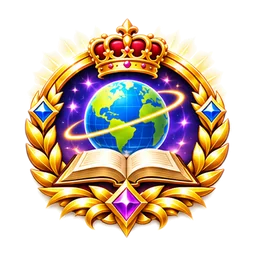
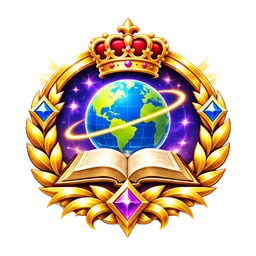
No.106・112の白背景残り(発光ハロー・縁の色混入)を根本修正
【前回修正(33e8789)の限界】
alphaBlurSigmaの引き上げは境界のギザギザ形状を滑らかにしただけで、
半透明境界ピクセル自体に混入した白色(RGB)は除去されず、ユーザー報告の
「白背景残りが依然として目立つ」症状の原因として残っていた。
extractComponentSquare()はアルファ値に応じたRGB補正(decontamination)
を行わず、シート上のRGBをそのまま転写するため、境界部分は
「白背景色とデザイン色の混合色」のまま半透明化されるだけだった。

【根本原因】
既存のlightMetric:"min"(PR #97)は「明度(min(R,G,B))がlightThreshold未満
か」のみで前景/背景を判定する。これは彩度を見ないため、以下2種類を
区別できない:
  (a) 本物の発光境界(彩度は低いが、明度も十分低く前景側に残る画素)
  (b) 白背景が薄く透けている画素(彩度が低く、明度が高い画素)
No.106/112は王冠外側に広い光条グロー装飾があり、その外周が白背景へ
極めて緩やかに(数十px かけて)フェードする作風のため、(a)(b)の混同が
最も強く現れていた。

【修正内容】
foreground-mask.jsのcomputeBrightness()に新しい光モード
"min-chroma"を追加(既存の"max"/"min"とは完全に別の追加値、デフォルト
動作は無変更):
  - 彩度(max(R,G,B)-min(R,G,B)) >= lightChromaThreshold(既定50)の画素は
    従来通りmin(R,G,B)で判定(彩度のある金色などを保護)。
  - 彩度がそれ未満の画素はmax(R,G,B)で判定(白に近い画素を背景側へ)。
  - さらにlightChromaBackgroundFloor(既定255=無効)を追加。彩度が低い
    画素のうちmaxVal >= floorのものは明度に関わらず強制的に背景判定と
    する。縁のアンチエイリアス帯(彩度は低いが生のmax値がlightThreshold
    には届かない「死角」範囲)を掃除するための第2パラメータ。

split-sheet.js/process-sheet.jsはこの2パラメータをオプション引数として
中継するのみで、未指定時は全セルとも従来通りmin-chromaを使わない。

【適用範囲(重要)】
これらのパラメータはシート全体に一括適用される設計のため、他10種類
(No.101-105,107-111)への影響を避けるべく、config/sheets/
title-collection-12.json(コミット済み設定)は一切変更していない。
代わりに以下の手順でNo.106・112のみへ限定適用した:
  1. 一時設定(lightMetric:"min-chroma", lightChromaThreshold:50,
     lightChromaBackgroundFloor:150)でシート全体を再処理。
  2. No.106・112の4解像度分(128/256/512/original)の出力のみを保存。
  3. git checkoutでoutput/配下を直前コミット状態へ全復元。
  4. 保存しておいたNo.106・112の出力のみを復元後のoutput/へ再適用。
[…]

Changed region(s): [[0.0938, 0.0625, 0.9062, 0.9375]]

diff --git a/tools/trophy-image-pipeline/lib/foreground-mask.js b/tools/trophy-image-pipeline/lib/foreground-mask.js
@@ -37,8 +37,8 @@
  *   255(明るい側)になる点以外、明度配列そのものの計算方法(既定: 各
  *   チャンネルの最大値)は変わらない。背景かどうかの判定(しきい値との
  *   比較方向)はfloodFillBackgroundFromBorder側で行う。
- * @param {"max"|"min"} [lightMetric] - backgroundMode==="light"の場合のみ
- *   有効。既定"max"(各チャンネルの最大値。従来どおり)。
+ * @param {"max"|"min"|"min-chroma"} [lightMetric] - backgroundMode==="light"の
+ *   場合のみ有効。既定"max"(各チャンネルの最大値。従来どおり)。
  *
  *   "max"の弱点: 白背景は「3チャンネルすべて高い」(R≈G≈B≈255)のに対し、
  *   トロフィー装飾の金色のハイライトや濃い橙色(例:R=254,G=213,B=21)は
@@ -50,18 +50,54 @@
  *   "min"を指定すると各チャンネルの最小値を使う: 3チャンネルすべてが
  *   高い値でなければ候補にならないため、本物の白背景だけを正しく拾い、
  *   彩度の高い金色・橙色は(どれだけ明るい色でも)前景として保護される。
- *   ただし挙動が変わるため、既存シート(既定"max")には一切影響しない
- *   オプトイン方式とし、問題が実際に確認されたシートの設定でのみ
- *   明示的に指定する。
- * @returns {Uint8Array} 長さ width*height の明度配列(lightMetricにより
- *   各チャンネルの最大値または最小値)
+ *   ただし、彩度の低いクリーム色・オフホワイト(例:R=254,G=248,B=221。
+ *   白背景へなだらかにフェードする発光表現の縁など)も「3チャンネル
+ *   すべてそこそこ高い」ため背景として拾われず、本来除去したい
+ *   白っぽい残留部分が前景として残ってしまう弱点がある
+ *   (トロフィー画像第7弾のNo.106/112で実際に発生した不具合)。
+ *
+ *   "min-chroma"を指定すると、各ピクセルの彩度(最大値-最小値、
+ *   lightChromaThresholdで判定)に応じて"min"と"max"を使い分ける:
+ *   彩度が高い(=はっきり色付いている金色・橙色等)ピクセルは"min"を
+ *   使い前景として保護し、彩度が低い(=ほぼ無彩色の白・クリーム色)
+ *   ピクセルは"max"を使い、白背景に近ければ正しく背景として除去する。
+ *   金色のハイライトと白背景へのフェードを色の濃さで区別することで、
+ *   両方の問題を同時に解決する。
+ *
+ *   いずれの新しい値も挙動が変わるため、既存シート(既定"max")には
+ *   一切影響しないオプトイン方式とし、問題が実際に確認されたシートの
+ *   設定でのみ明示的に指定する。
+ * @param {number} [lightChromaThreshold] - lightMetric==="min-chroma"の
+ *   場合のみ有効。既定50。各ピクセルの(最大値-最小値)がこの値以上なら
+ *   彩度が高い(色付いている)とみなして"min"を、未満なら彩度が低い
+ *   (無彩色)とみなして"max"を使う。
+ * @param {number} [lightChromaBackgroundFloor] - lightMetric==="min-chroma"の
+ *   場合のみ有効。既定255(実質無効)。彩度が低い(無彩色)ピクセルのうち、
+ *   各チャンネルの最大値がこの値以上なら、しきい値(lightThreshold)との
+ *   比較を待たず強制的に背景候補(255)とみなす。
+ *
+ *   背景(白)と前景(金色の縁取り等)の境界には、アンチエイリアスにより
+ *   「彩度は低いが白ほど明るくもない」灰色がかった中間色の帯が生じる
+ *   ことがある(例:R=220,G=210,B=200)。この帯はlightThreshold(既定245)
+ *   未満のため"max"方式では前景として残ってしまうが、実際には背景との
+ *   混色でしかなく、暗い背景の上では灰白色のにじみとして見えてしまう
+ *   (トロフィー画像第7弾のNo.106/112で実際に発生)。
+ *   このfloorをlightThresholdより低く設定すると、この中間色の帯も
+ *   正しく背景として除去できる。ただし、装飾内部にある本物の暗い影・
+ *   瞳等(例:夜空の星)は外周から辿れない(前景に囲まれている)ため、
+ *   この値を下げても誤って消えることはない(外周からのフラッドフィルは
+ *   連結性でのみ背景を確定するため)。
+ * @returns {Uint8Array} 長さ width*height の明度配列
  */
-function computeBrightness(data, width, height, channels, alphaBackgroundThreshold, backgroundMode, lightMetric) {
+function computeBrightness(data, width, height, channels, alphaBackgroundThreshold, backgroundMode, lightMetric, lightChromaThreshold, lightChromaBackgroundFloor) {
   const n = width * height;
   const brightness = new Uint8Array(n);
   const hasAlphaGate = channels >= 4 && typeof alphaBackgroundThreshold === "number";
   const isLight = backgroundMode === "light";
   const useMin = isLight && lightMetric === "min";
+  const useMinChroma = isLight && lightMetric === "min-chroma";
+  const chromaThreshold = typeof lightChromaThreshold === "number" ? lightChromaThreshold : 50;
+  const chromaBackgroundFloor = typeof lightChromaBackgroundFloor === "number" ? lightChromaBackgroundFloor : 255;
   const forcedValue = isLight ? 255 : 0;
   for (let i = 0; i < n; i++) {
     const o = i * channels;
@@ -72,9 +108,15 @@ function computeBrightness(data, width, height, channels, alphaBackgroundThresho
     const r = data[o];
     const g = data[o + 1];
     const b = data[o + 2];
-    brightness[i] = useMin
-      ? (r < g ? (r < b ? r : b) : (g < b ? g : b))
-      : (r > g ? (r > b ? r : b) : (g > b ? g : b));
+    const minVal = r < g ? (r < b ? r : b) : (g < b ? g : b);
+    const maxVal = r > g ? (r > b ? r : b) : (g > b ? g : b);
+    if (useMinChroma) {
+      brightness[i] = (maxVal - minVal) >= chromaThreshold
+        ? minVal
+        : (maxVal >= chromaBackgroundFloor ? 255 : maxVal);
+    } else {
+      brightness[i] = useMin ? minVal : maxVal;
+    }
   }
   return brightness;
 }
@@ -227,7 +269,7 @@ function analyzeForeground(data, width, height, channels, options) {
     ? opts.lightThreshold
     : (typeof opts.darkThreshold === "number" ? opts.darkThreshold : 18);
 
-  const brightness = computeBrightness(data, width, height, channels, opts.alphaBackgroundThreshold, backgroundMode, opts.lightMetric);
+  const brightness = computeBrightness(data, width, height, channels, opts.alphaBackgroundThreshold, backgroundMode, opts.lightMetric, opts.lightChromaThreshold, opts.lightChromaBackgroundFloor);
   const isBackground = floodFillBackgroundFromBorder(brightness, width, height, threshold, backgroundMode);
   const { labels, components } = labelForegroundComponents(isBackground, width, height);
 

diff --git a/tools/trophy-image-pipeline/lib/split-sheet.js b/tools/trophy-image-pipeline/lib/split-sheet.js
@@ -56,7 +56,7 @@ function analyzeSheetWithAutoSeamCuts(data, width, height, channels, rows, cols,
     ? opts.lightThreshold
     : (typeof opts.darkThreshold === "number" ? opts.darkThreshold : 18);
 
-  const brightness = computeBrightness(data, width, height, channels, opts.alphaBackgroundThreshold, backgroundMode, opts.lightMetric);
+  const brightness = computeBrightness(data, width, height, channels, opts.alphaBackgroundThreshold, backgroundMode, opts.lightMetric, opts.lightChromaThreshold, opts.lightChromaBackgroundFloor);
   const isBackground = floodFillBackgroundFromBorder(brightness, width, height, threshold, backgroundMode);
   const first = labelForegroundComponents(isBackground, width, height);
   const firstSignificant = significantComponents(first.components, width, height, minComponentSizeRatio);

diff --git a/tools/trophy-image-pipeline/bin/process-sheet.js b/tools/trophy-image-pipeline/bin/process-sheet.js
@@ -47,6 +47,8 @@ async function main() {
     seamSearchRadiusRatio: opts.seamSearchRadiusRatio,
     alphaBackgroundThreshold: opts.alphaBackgroundThreshold,
     lightMetric: opts.lightMetric,
+    lightChromaThreshold: opts.lightChromaThreshold,
+    lightChromaBackgroundFloor: opts.lightChromaBackgroundFloor,
   });
 
   const report = {
@@ -57,6 +59,8 @@ async function main() {
     darkThreshold: opts.darkThreshold,
     lightThreshold: opts.lightThreshold,
     lightMetric: opts.lightMetric,
+    lightChromaThreshold: opts.lightChromaThreshold,
+    lightChromaBackgroundFloor: opts.lightChromaBackgroundFloor,
     backgroundMode: typeof opts.lightThreshold === "number" ? "light" : "dark",
     expectedCellCount: sheetConfig.cells.length,
     problems: [],
